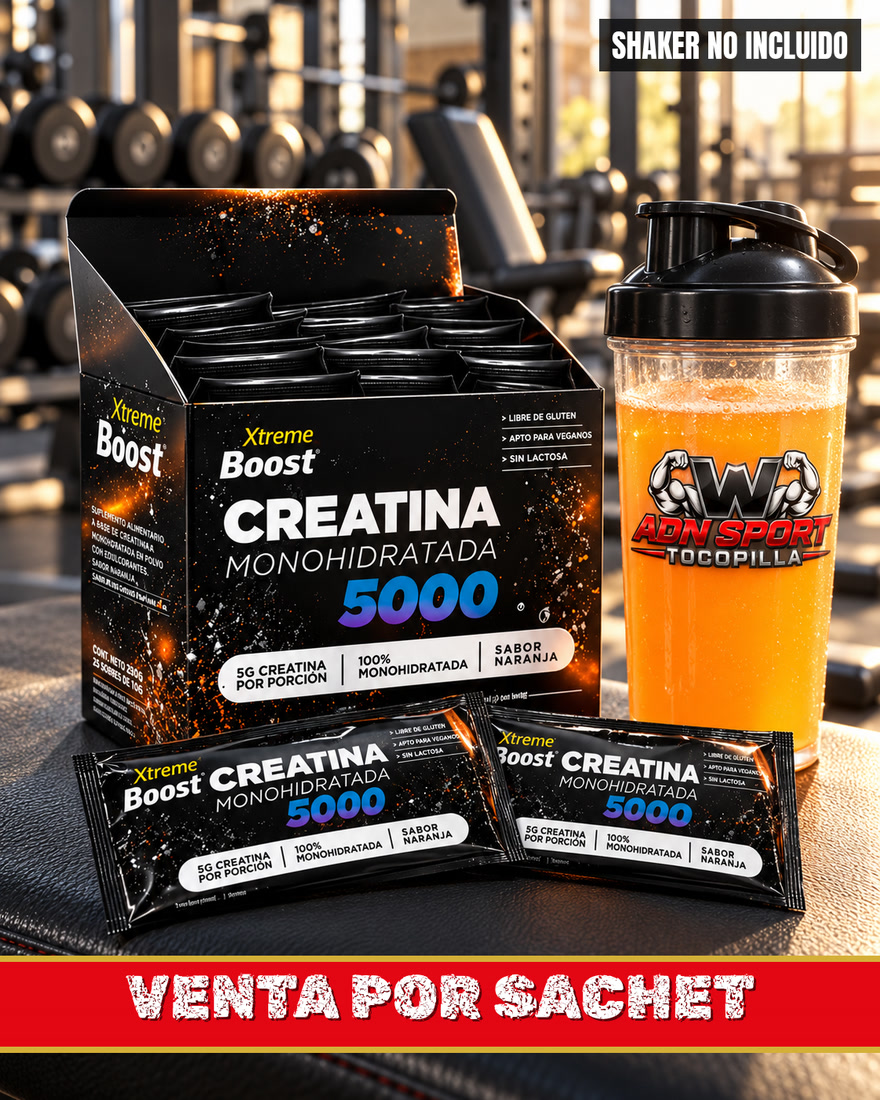
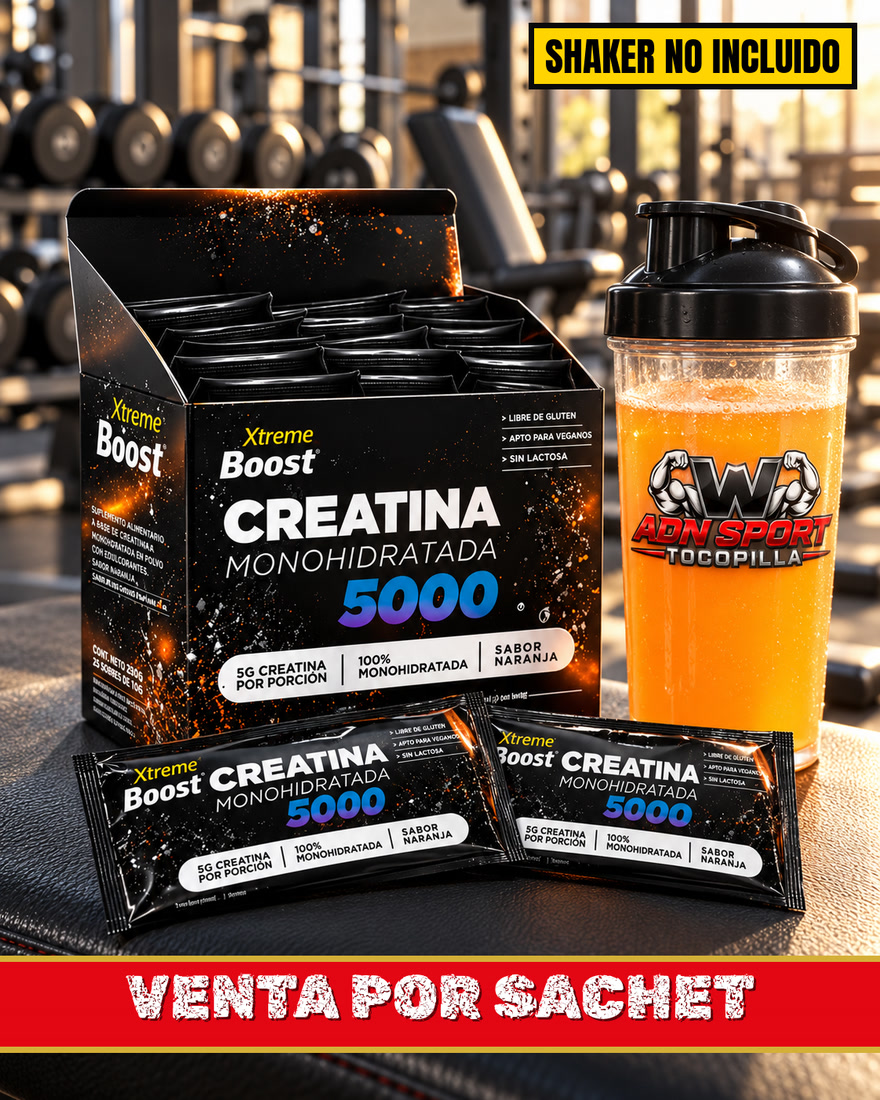
Tienda: «Shaker no incluido» en amarillo, más llamativo
Claude-Session: https://claude.ai/code/session_013ZgZPSRHEDhMsqmx8Km842

Changed region(s): [[0.583, 0.0, 0.9818, 0.0927]]

diff --git a/tienda.html b/tienda.html
@@ -221,7 +221,7 @@ function hoyISO(){ return new Intl.DateTimeFormat("en-CA", { timeZone:"America/S
 function ahoraTxt(){ var f = new Intl.DateTimeFormat("sv-SE", { timeZone:"America/Santiago", year:"numeric", month:"2-digit", day:"2-digit", hour:"2-digit", minute:"2-digit" }).format(new Date()); return f.replace("T", " ").slice(0, 16); }
 function normTxt(s){ return String(s || "").toUpperCase().normalize("NFD").replace(/[̀-ͯ]/g, ""); }
 /* Al cambiar una foto en img/tienda/ (mismo nombre), subir FOTO_V para que los teléfonos no muestren la antigua. */
-var FOTO_V = "41";
+var FOTO_V = "42";
 function fotoUrl(f){ return f ? f + (f.indexOf("?") < 0 ? "?v=" + FOTO_V : "") : ""; }
 function iconoCat(c){ var x = CATS.filter(function(k){ return k[0] === c; })[0]; return x ? x[1] : "📦"; }
 function toast(t, ms){ var el = $("toast"); el.textContent = t; el.style.display = "block"; clearTimeout(toast.t); toast.t = setTimeout(function(){ el.style.display = "none"; }, ms || 2600); }
@@ -303,7 +303,7 @@ setInterval(function(){ if(pend.length) enviarPendientes(); }, 30000);
    el computador"): los datos se vuelven a pedir a la planilla cada 30 s mientras la página está a la vista (sin una ficha
    abierta), y cada minuto se revisa tienda-version.txt: si hay una versión nueva de la página, se recarga sola.
    Cada vez que se cambie tienda.html, subir TIENDA_VERSION y tienda-version.txt juntos (AAAAMMDDNN). */
-var TIENDA_VERSION = "2026102533";
+var TIENDA_VERSION = "2026102534";
 setInterval(function(){ if(clave && !document.hidden && $("velo").hidden && !$("app").hidden) enviarPendientes().then(function(){ cargar(true); }); }, 30000);
 function revisarVersion(){
  fetch("tienda-version.txt?t=" + Date.now(), { cache:"no-store" }).then(function(r){ return r.ok ? r.text() : ""; }).then(function(v){

diff --git a/CLAUDE.md b/CLAUDE.md
@@ -1530,7 +1530,7 @@ Versión 23). Celular y compu ven el mismo inventario.
   Llegan el lunes 26-10-2026 (cargar ese día): Creatina Xtreme Boost en sachet (pack $19.990 con tabletas de pre entreno que
   son para la dueña → costo $1.000 c/u, venta $2.000; foto `img/tienda/creatina-xtreme-boost-sachet.jpg`: caja abierta y dos sobres en el gimnasio, shaker con el logo; franja roja/dorada abajo «VENTA POR SACHET», igual que la del pre entreno, pedida por la dueña) y Creatina Ostrovit 500 g mango por tarro (2 por $22.220 → $11.110 c/u; venta $30.000; foto `img/tienda/creatina-ostrovit-500g.jpg` en el gimnasio, shaker con el logo).
   **«SHAKER NO INCLUIDO» (25-10-2026, pedido de la dueña):** las fotos con shaker (Mr Hyde, Ostrovit, Xtreme Boost) llevan arriba a la derecha
-  una etiqueta negra con letra blanca Anton (`contenido/fuentes/Anton.ttf`, ffmpeg `drawtext`). Toda foto nueva con shaker la lleva.
+  una etiqueta amarilla `#FFD400` con borde negro y letra negra Anton de 50 px (`contenido/fuentes/Anton.ttf`, ffmpeg `drawtext`; la dueña la pidió «más llamativa»; antes era negra con letra blanca). Toda foto nueva con shaker la lleva.
   Categorías de ropa (24-10-2026, la dueña: "esta es ropa de hombre"): «Ropa mujer» 👚 y «Ropa hombre» 👕 (`catNueva`: lo
   guardado como «Ropa deportiva» se muestra como «Ropa mujer»; en los enlaces usar `cat=Ropa%20mujer` o `cat=Ropa%20hombre`).
   Ropa deportiva de mujer (24-10-2026): cada talla y color es un producto aparte con su código 200… (la ropa no trae
